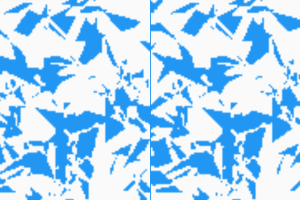
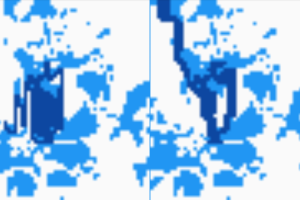
Lab5: change subject polygon; Lab3: change preview

diff --git a/Lab5-Sutherland-Hodgman/script.js b/Lab5-Sutherland-Hodgman/script.js
@@ -22,15 +22,34 @@ let canvasInterface = new SutherlandHodgmanCanvas(
     '#64DD17',
     '#AED581',
     [
-        {x: 230, y: 240},
-        {x: 380, y: 140},
-        {x: 530, y: 240},
-        {x: 530, y: 390},
-        {x: 430, y: 390},
-        {x: 380, y: 340},
-        {x: 330, y: 440},
-        {x: 280, y: 340},
-        {x: 280, y: 290}
+        { x: 170, y: 54  },
+        { x: 317, y: 54  },
+        { x: 319, y: 121 },
+        { x: 281, y: 121 },
+        { x: 332, y: 312 },
+        { x: 405, y: 169 },
+        { x: 478, y: 312 },
+        { x: 529, y: 121 },
+        { x: 491, y: 121 },
+        { x: 491, y: 54  },
+        { x: 640, y: 54  },
+        { x: 640, y: 121 },
+        { x: 601, y: 121 },
+        { x: 533, y: 421 },
+        { x: 568, y: 421 },
+        { x: 568, y: 487 },
+        { x: 421, y: 487 },
+        { x: 421, y: 421 },
+        { x: 455, y: 421 },
+        { x: 405, y: 334 },
+        { x: 355, y: 421 },
+        { x: 388, y: 421 },
+        { x: 388, y: 487 },
+        { x: 242, y: 487 },
+        { x: 242, y: 421 },
+        { x: 277, y: 421 },
+        { x: 209, y: 121 },
+        { x: 170, y: 121 },
     ],
     clip,
     200
